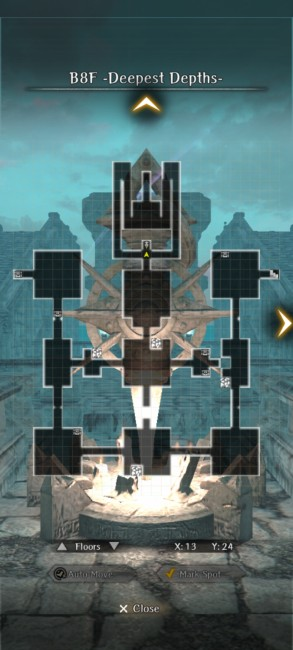
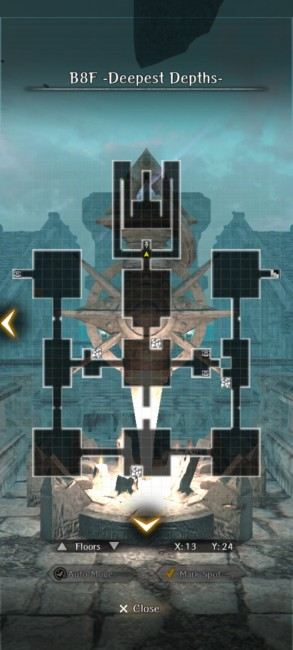
Better maps for abyss1, adding some variations (#163)
* add map variations to abyss 1

* fix bf5 map

* add better maps and variations for for b1 and b3

* fix poison area on b3f maps

* fix comment whitespacing

* 2map placeholders layout fix

* clean up b3f text

* better b4f

* fix b5f map

* fix b6f map

* better b8f

* better b7f

diff --git a/docs/abyss-guides/1-beginning-abyss/maps.md b/docs/abyss-guides/1-beginning-abyss/maps.md
@@ -1,14 +1,19 @@
 # The Beginning Abyss
 
 !!! note
-    Certain floors have randomly generated tiles, so your map will not match 100% of the map I posted.  When certain actions reset the dungeon, your map layout may change. 
+    Certain floors have tile variations that are randomly selected when you start the abyss, and certain actions can reset the dungeon layout changing the variation you see. An attempt has been made to capture the variations, but your maps and the location of certain events may not perfectly match what is shown below. 
 
 ??? map "B1F -Pit-"
 
     !!! note
         Not much to say, first floor, welcome. Look for the Beginning Abyss Key for a nice surprise on floor 2. On second playthrough, make sure to talk to Chris to unlock a bondmate quest. He's the elf on the left side dead end when you first enter.
 
-    ![](./img/beginning-abyss-b1f.jpg)
+    === "Variation 1"
+        ![](./img/beginning-abyss-b1f-v1.jpg) 
+
+    === "Variation 2"
+        ![](./img/beginning-abyss-b1f-v2.jpg) 
+
 
 ??? map "B2F -Temple-"
 
@@ -20,16 +25,28 @@
 ??? map "B3F -Cave-In Zone-"
 
     !!! note
-        You can continue your way through until the story makes you examine the rocks. Examine it enough times and you can reverse time and proceed. Make sure you reverse time and find the cause of death of your friends. There's a camp where it restores all your hp/mp/sp. It will be restored every time you exit and enter the labyrinth. The Goblin's nest is not worth doing, leave it.
+        You can continue your way through until the story makes you examine the rocks. Examine all surrounding surfaces enough times and you can reverse the rocks and proceed. Make sure you reverse all rocks and find the cause of death of your friends for important knowledge. There's a camp where it restores all your hp/mp/sp. It can be used once each time you enter the labyrinth. The Goblin's nest is not worth doing, leave it.
 
-    ![](./img/beginning-abyss-b3f.jpg)
+    === "Variation 1"
+        ![](./img/beginning-abyss-b3f-v1.jpg)
+
+    === "Variation 2"
+        ![](./img/beginning-abyss-b3f-v2.jpg)
 
 ??? map "B4F -Labyrinth"
 
     !!! note
         First time here? You get to watch your friends die. Second time here? Fix it with the wheel! This is the first time the game shows you raising a stone will lower and raise certain paths, that's really it.
 
-    ![](./img/beginning-abyss-b4f.jpg)
+    ![](./img/beginning-abyss-b4f-v1.jpg)
+
+<!-- uncomment when 2nd variation map is obtained
+    === "Variation 1"
+        ![](./img/beginning-abyss-b4f-v1.jpg)     
+
+    === "Variation 2"
+        ![](./img/beginning-abyss-b4f-v2.jpg)
+-->
 
 ??? map "B5F -Warped One's Nest-"
 
@@ -41,16 +58,33 @@
 ??? map "B6F -Map Killer-"
 
     !!! note
-        The beginning fork may vary. Don't bother opening the wrong door where the corpse tells you. It's just spikes. The corpses will give you hints to get through the level. I believe the correct warp order is right, up, then right or left depending on the previous corpse warning. (The light/sun rises in the east and sets in the west.) Statue room puzzle requires you to restore the statue heads that match your party members according to the clue on the nearby dead body. This clue can change every time you enter this level. [See answers in the FAQ](../../frequently-asked-questions.md#how-do-i-solve-the-statue-puzzle-on-b6f-of-the-beginning-abyss). Saint shield quest is also completed here; do the second warp wrong and fight the mob.
+        Don't bother opening the wrong door where the corpse tells you. It's just spikes. The corpses will give you hints to get through the level. I believe the correct warp order is right, up, then right or left depending on the previous corpse warning. (The light/sun rises in the east and sets in the west.) Statue room puzzle requires you to restore the statue heads that match your party members according to the clue on the nearby dead body. This clue can change every time you enter this level. [See answers in the FAQ](../../frequently-asked-questions.md#how-do-i-solve-the-statue-puzzle-on-b6f-of-the-beginning-abyss). Saint shield quest is also completed here; do the second warp wrong and fight the mob.
 
-    ![](./img/beginning-abyss-b6f.jpg)
+    ![](./img/beginning-abyss-b6f-v1.jpg)
+
+<!-- uncomment when 2nd variation map is obtained
+    === "Variation 1"
+        ![](./img/beginning-abyss-b6f-v1.jpg)
+
+    === "Variation 2"
+        ![](./img/beginning-abyss-b6f-v2.jpg)
+-->
+
 
 ??? map "B7F -Amongst the Dead-"
     
     !!! note
         You will need to go through the poison floors every time UNLESS you reverse the stones on the next floor that create shortcuts. Make sure to do that. B8F description tells you which stones open which paths.  Albano will REALLY not like you here, unless YOU DO something correctly (second playthrough only). The camp here is important as you can't access the Harken on the next floor until you beat the final boss. 
 
-    ![](./img/beginning-abyss-b7f.jpg)
+    ![](./img/beginning-abyss-b7f-v1.jpg)
+
+<!-- uncomment when 2nd variation map is obtained
+    === "Variation 1"
+        ![](./img/beginning-abyss-b7f-v1.jpg)
+
+    === "Variation 2"
+        ![](./img/beginning-abyss-b7f-v2.jpg)
+-->
 
 ??? map "B8F -Deepest Depths-"
 
